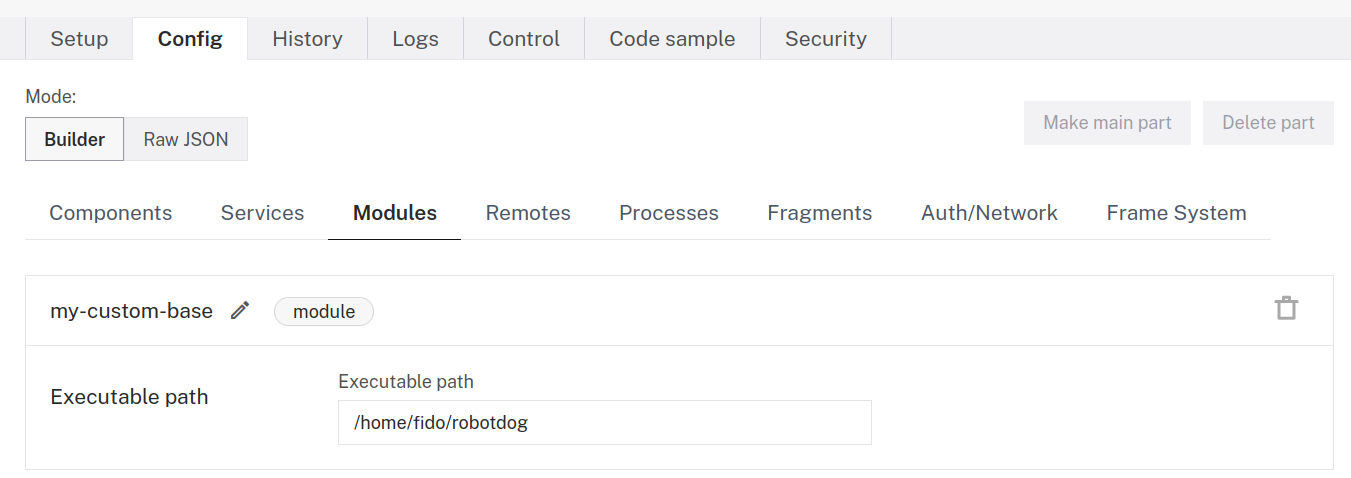
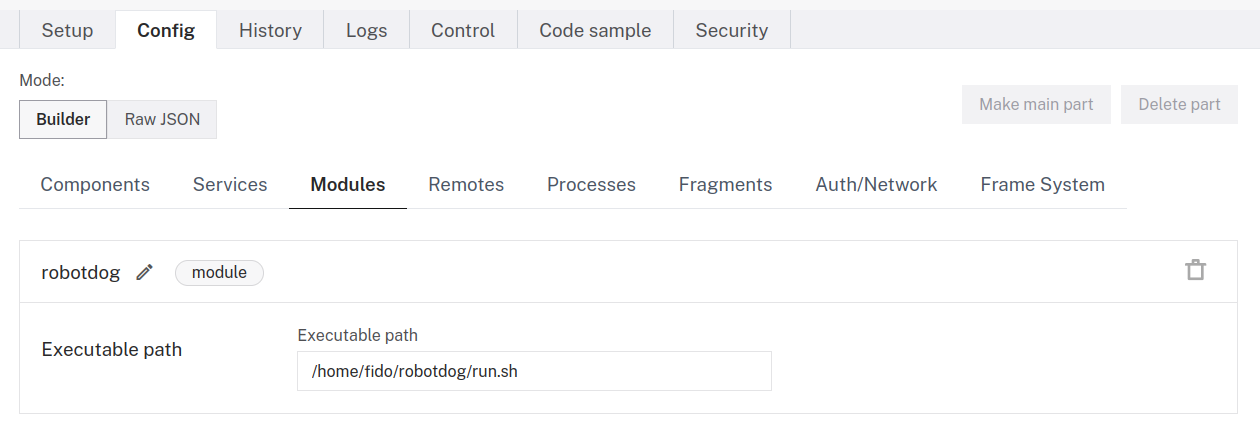
Add config attributes and process etc

diff --git a/docs/tutorials/custom/custom-base-dog.md b/docs/tutorials/custom/custom-base-dog.md
@@ -149,9 +149,9 @@ import socket, time
 s = socket.socket(socket.AF_INET, socket.SOCK_STREAM)
 s.connect(("PASTE DOG IP ADDRESS HERE", 5001))
 
-cmd = "CMD_MOVE_FORWARD#8"
+cmd = "CMD_MOVE_FORWARD#15"
 s.send(cmd.encode("utf-8"))
-time.sleep(8)
+time.sleep(7)
 cmd = "CMD_MOVE_STOP"
 s.send(cmd.encode("utf-8"))
 cmd = "CMD_RELAX"
@@ -164,7 +164,7 @@ Save the file.
 
 Go to the [robot page](https://app.viam.com/robots) for your robot dog that you created when installing `viam-server` on the Pi.
 
-In the banner towards the top of the page, the IP address of the robot dog Pi is displayed under **ips**.
+In the banner towards the top of the page, the IP address of the robot dog Pi is displayed under **IPs**.
 Copy the IP to your clipboard.
 Inside <file>dog_test.py</file>, replace `PASTE DOG IP ADDRESS HERE` with the copied IP.
 Save the file.
@@ -240,6 +240,67 @@ Look inside the <file>src</file> subdirectory which now contains <file>__init__.
 <file>robotdog.py</file> is the file that defines the behavior of your custom base.
 This is the file you will modify in the next steps.
 
+### Connect the module to the Freenove server
+
+When you send a command to the robot using the Viam [base API](/components/base/#api), you need a way to pass the corresponding command to the Freenove dog server.
+In your code, establish a socket and then create a `send_data` helper method to send the command from `viam-server` to the Freenove server.
+
+Start by importing socket:
+
+```python
+import socket
+```
+
+Then add `ip_address` and `port` attributes to your custom base so you can configure the correct connection details in your robot's config later.
+Modify the `validate` and `reconfigure` methods to use these attributes, and define the `send_data` method.
+The code below shows what the top of your class definition should look like.
+
+```python {class="line-numbers linkable-line-numbers"}
+class robotdog(Base, Reconfigurable):
+    MODEL: ClassVar[Model] = Model(ModelFamily("viamlabs", "base"), "robotdog")
+    
+    # Class parameters
+    ip_address: str
+    port: int
+
+    # Constructor
+    @classmethod
+    def new(cls, config: ComponentConfig, dependencies: Mapping[ResourceName, ResourceBase]) -> Self:
+        my_class = cls(config.name)
+        my_class.reconfigure(config, dependencies)
+        return my_class
+
+    # Validates JSON Configuration
+    @classmethod
+    def validate(cls, config: ComponentConfig):
+        # Here we validate config, ensuring that an IP address was provided
+        ip_address = config.attributes.fields["ip_address"].string_value
+        if ip_address == "":
+            raise ValueError("No IP address provided")
+
+        port = config.attributes.fields["port"].number_value
+        # Per the Freenove code, 5001 is for sending/receiving instructions. Port 8001 is used for video.
+        if port == "":
+            port = 5001
+        return
+
+    # Define a way to send commands to the robot dog server
+    def send_data(self, data):
+        try:
+            self.client_socket.send(data.encode("utf-8"))
+        except Exception as e:
+            LOGGER.error(e)
+
+    # Handles attribute reconfiguration
+    def reconfigure(self, config: ComponentConfig, dependencies: Mapping[ResourceName, ResourceBase]):
+        # Here we initialize the resource instance
+        ip_address = config.attributes.fields["ip_address"].string_value
+        port = config.attributes.fields["port"].number_value
+        self.client_socket = socket.socket(socket.AF_INET, socket.SOCK_STREAM)
+        self.client_socket.connect((ip_address, port))
+        return
+```
+
 ### Define the custom base interface
 
 To create a custom base model, you need a script that defines what each base component method (for example `set_power`) makes the robot dog do.
@@ -280,7 +341,7 @@ You need to tell your robot how to access the module you created.
 On the [Viam app](https://app.viam.com), go to your robot's **Config** tab.
 Click the **Modules*** subtab.
 Name your module `my-custom-base`.
-Enter the path (for example, `/home/fido/robotdog`) to your module in the **Executable path** field.
+Enter the path (for example, `/home/fido/robotdog/run.sh`) to your module's executable file in the **Executable path** field.
 Click **Save Config** at the bottom of the page.
 
 ![Screenshot of the Viam app CONFIG tab with the Modules subtab open, showing my-custom-base configured.](../../img/custom-base-dog/module-config.png)
@@ -300,7 +361,17 @@ Click **Create Component**.
 
 ![Screenshot of the Viam app CONFIG tab with the Config subtab open, showing quadruped configured.](../../img/custom-base-dog/config-modular-component.png)
 
-You don't need to add any attributes to the base component.
+You need to add the `ip_address` and `port` attributes to your base config.
+In the attributes field, paste the following:
+
+```json
+{
+  "ip_address": "REPLACE WITH YOUR ROBOT DOG'S IP ADDRESS",
+  "port": 5001
+}
+```
+
+`5001` is the default port for sending and receiving instructions to and from the Freenove server.
 
 Click **Save Config**.
 
@@ -308,95 +379,58 @@ Click **Save Config**.
 
 Configure the ribbon camera on the dog as a `webcam` following our [webcam documentation](/components/camera/webcam/).
 
-## Start the servers
+## Start the Freenove server
 
-To operate the dog, you need to start the two servers in order:
+To operate the dog, you need to start the Freenove robot dog server (which you saved as <file>/home/fido/Freenove_Robot_Dog_Kit_for_Raspberry_Pi/Code/Server/main.py</file>).
 
-- First, the Freenove robot dog server (which you saved as <file>/home/fido/Freenove_Robot_Dog_Kit_for_Raspberry_Pi/Code/Server/main.py</file>).
-- Then, the custom component server (<file>/home/fido/RobotDog/python-server.py</file>).
-  This one must be started second because it sends requests to the Freenove dog server, so it will throw errors if it can't find that server when it tries to start.
+You can configure a *process* to automatically start the server on boot so it is ready to receive commands from `viam-server`.
 
-<!---
+Navigate to the **Processes** subtab of your robot's **Config** tab.
 
-# ADD THIS BACK IN AFTER APP-1227 IS DONE. TEST IT FIRST.
-
-You have two options for starting the servers: automatic or manual.
-
-### Option 1: Configure processes to automatically start the servers on boot
-
-Click the **Processes** subtab of the **Config** tab.
-
-Create a new process and give it a name (for example "1st").
-Once configured, this process will start the Freenove robot dog server so it is ready to receive commands from the custom component server.
+Create a new process and give it a name (for example `freenove`).
 Fill out the config panel as follows:
 
+- **Executable**: `python`
+- **Arguments**: `main.py -tn` so that the Freenove server starts without launching Freenove's GUI.
+Be sure to click **Add argument**!
 - **Working Directory**: `/home/fido/Freenove_Robot_Dog_Kit_for_Raspberry_Pi/Code/Server` (changing "/home/fido" to the name of your home directory where you downloaded the Freenove code)
-- **Logging**: Toggle to the on position so you can view logs for this server process
-- **Arguments**: `main.py -tn` so that the Freenove server starts without launching their GUI
-- **Command**: `python main.py`
-
-Create a second process to start the custom component server.
-Configure it like this:
-
-- **Working Directory**: `/home/fido/RobotDog` (changing "/home/fido" to the correct path)
-- **Logging**: Toggle to the on position so you can view logs for this server process
-- **Arguments**: python_server.py
-- **Command**: `python`
+- **Logging**: Toggle to the **on** position so you can view logs for this server process
 
 Click **Save Config** at the bottom of the window.
 
-![Screenshot of the Processes subtab of the Config tab, showing two processes configured as detailed above.](../../img/custom-base-dog/process-config.png)
+![Screenshot of the Processes subtab of the Config tab, showing a process configured as detailed above.](../../img/custom-base-dog/process-config.png)
 
-{{% expand "Click to see what the processes config will look like in Raw JSON mode." %}}
+{{% expand "Click to see what the processes config looks like in Raw JSON mode." %}}
 
 ```json
-"processes": [
+  "processes": [
     {
+      "id": "freenove",
       "log": true,
       "name": "python",
-      "id": "1st",
-      "cwd": "/home/fido/Freenove_Robot_Dog_Kit_for_Raspberry_Pi/Code/Server",
       "args": [
-        "main.py",
-        -tn"
-      ]
-    },
-    {
-      "args": "python_server.py",
-      "id": "2nd",
-      "log": true,
-      "name": "python",
-      "cwd": "/home/fido/RobotDog"
+        "main.py -tn"
+      ],
+      "cwd": "/home/fido/Freenove_Robot_Dog_Kit_for_Raspberry_Pi/Code/Server",
+      "one_shot": false
     }
   ]
 ```
 
 {{% /expand %}}
 
-{{% alert title="Note" color="note" %}}
+{{% alert title="Tip" color="tip" %}}
 
-We added a 5 second time delay to the [<file>python_server.py</file>](https://github.com/viam-labs/robot-dog-base/blob/main/python_server.py#L15) code so that even though these two processes will start simultaneously, there will be time for the Freenove server to start up before the custom component server starts sending requests to it.
+If you prefer not to start the Freenove server every time the robot boots, you can instead start it manually from your command line.
 
-{{% /alert %}}
-
-### Option 2: Start the processes manually from the command line
-
-If you prefer, you can start the processes manually from command terminals on the Pi.
-
---->
-
-From the <file>home/fido/Freenove_Robot_Dog_Kit_for_Raspberry_Pi/Code/Server/</file> directory start the Freenove robot dog server:
+SSH into the Pi.
+From the <file>home/fido/Freenove_Robot_Dog_Kit_for_Raspberry_Pi/Code/Server/</file> directory, start the Freenove robot dog server:
 
 ```sh {id="terminal-prompt" class="command-line" data-prompt="$"}
 sudo python main.py -tn
 ```
 
-Then, open another terminal, SSH to the Pi, and navigate to the directory where you saved your custom Viam component code (for example, <file>/home/fido/RobotDog/</file>).
-Start the custom component server by running:
-
-```sh {id="terminal-prompt" class="command-line" data-prompt="$"}
-python python_server.py
-```
+{{% /alert %}}
 
 ## Driving the robot from the Viam app
 
@@ -450,11 +484,9 @@ If you have otherwise unexplained connection errors, try powering things off and
 ## Next steps
 
 In this tutorial you learned how to implement a custom component model and control it using the Viam app.
-You learned about configuring remotes and processes.
+You learned about configuring modules and processes.
 You drove the robot dog around using the Viam **Control** tab.
 
-To add more functionality, try defining more of the base API methods for this model.
+To add more functionality, try using the generic `do_command` method to add different behaviors to your robot dog.
 You could also use the Viam [Vision Service](/services/vision/) with the robot dog's [camera component](/components/camera/).
 For example, you could write code to tell the robot dog to [move towards a colored target](/tutorials/services/color-detection-scuttle/) or to [follow a colored line](/tutorials/services/webcam-line-follower-robot/), similarly to how these tasks are done with wheeled bases in the tutorials linked here.
-
-{{< snippet "social.md" >}}
